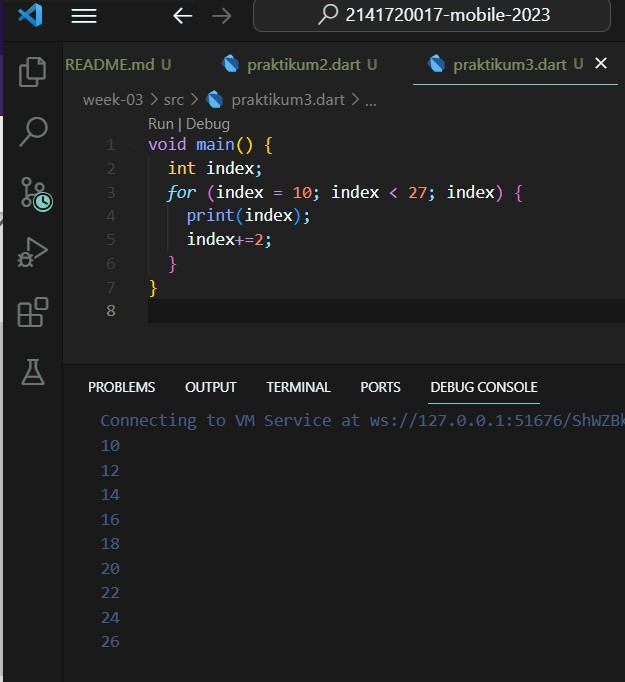
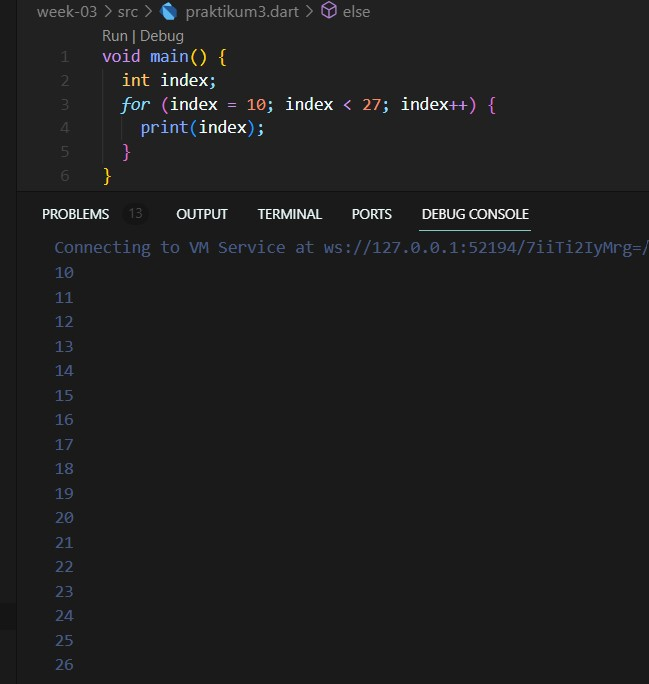
week-03 tugas

diff --git a/week-03/src/tugas_bil_prima.dart b/week-03/src/tugas_bil_prima.dart
@@ -1,0 +1,19 @@
+void main() {
+  int bil;
+  int count = 0;
+  for (int i = 1; i <= 201; i++) {
+    bil = 0;
+    for (int j = 1; j <= i; j++) {
+      if (i%j == 0) {
+        bil= bil+1;
+      }
+    }
+    if (bil==2) {
+      print("Nama : Alvina Marcy S.P.");
+      print("NIM : 2141720017");
+      print("Bilangan Prima : $i");
+      count++;
+    }
+  }
+  print("total ada $count bilangan prima");
+}

diff --git a/week-03/src/switch_case.dart b/week-03/src/switch_case.dart
@@ -1,0 +1,16 @@
+void main() {
+  int a = 1;
+  switch (a) {
+    case 1:
+      
+    case 2:
+      print(a);
+      break;
+    case 3:
+      print(a+1);
+      break;
+    default:
+    print(a+2);
+    break;
+  }
+}

diff --git a/week-03/src/praktikum3.dart b/week-03/src/praktikum3.dart
@@ -11,3 +11,6 @@ void main() {
     }
   }
 }
+
+
+

diff --git a/week-03/README.md b/week-03/README.md
@@ -12,11 +12,11 @@ Absen : 03
 
 ### Langkah 1
 Kode sesuai contoh praktikum
-![Screenshot langkah 1](docs/praktikum1_langkah1_eror.jpg)
+![Screenshot](docs/praktikum1_langkah1_eror.jpg)
 
 ### Langkah 2 
 kode setelah di perbaiki
-![Screenshot langkah 1](docs/praktikum1_langkah1.jpg)
+![Screenshot](docs/praktikum1_langkah1.jpg)
 
 Terjadi eror ketika di run karena pada if else ada penggunaan huruf besar yang tidak sesuai. sehingga perlu dilakukan perbaikan dengan mengganti huruf besar menjadi huruf kecil agar bisa likakukan run dan eror teratasi. 
 
@@ -25,10 +25,10 @@ sehingga menghasilkan print "Test2" dan "Test2 again" seperti pada contoh gambar
 ### Langkah 3
 
 Kode sesuai contoh praktikum
-![Screenshot langkah 1](docs/praktikum1_langkah3_eror.jpg)
+![Screenshot](docs/praktikum1_langkah3_eror.jpg)
 
 kode setelah di perbaiki
-![Screenshot langkah 1](docs/praktikum1_langkah3.jpg)
+![Screenshot](docs/praktikum1_langkah3.jpg)
 
 pada awalnya terjadi eror dikarenakan tidak boleh ada nama variabel yang terduplikasi, selanjutnya pada persyaratan if harus bernilai bolean. namun pada case awal walaupun variabel test memiliki String dengan kata true namun itu bukanlah bolean namun masih sebuah string, sehingga perlu kita buat persyaratan menjadi if(test1 == "true") barulah nilai yang di hasilkan berupa bolean dan kode bisa di eksekusi tanpa eror.
 
@@ -36,19 +36,19 @@ pada awalnya terjadi eror dikarenakan tidak boleh ada nama variabel yang terdupl
 
 ### Langkah 1
 Kode sesuai contoh praktikum
-![Screenshot langkah 1](docs/praktikum2_langkah1_eror.jpg)
+![Screenshot](docs/praktikum2_langkah1_eror.jpg)
 
 ### Langkah 2
 terjadi eror dikarenakan variabel counter belum di buat dan belum di devinisikan nilainya.
 
 kode setelah di perbaiki
-![Screenshot langkah 1](docs/praktikum2_langkah1.jpg)
+![Screenshot](docs/praktikum2_langkah1.jpg)
 
 ditambahkan variabel counter dengan tipe integer dan memiliki nilai 1. barulah looping while bisa berjalan
 
 ### Langkah 3
 Kode sesuai contoh praktikum
-![Screenshot langkah 1](docs/praktikum2_langkah3.jpg)
+![Screenshot](docs/praktikum2_langkah3.jpg)
 
 kode yang di berikan pada contoh praktikum tidak terjadi eror sehingga perulangan di-while dapat berjalan dengan benar.
 
@@ -62,6 +62,24 @@ terjadi eror karena variabel belum di buat dan looping akan terus berjalan karen
 ### Langkah 2
 ![Screenshot](docs/praktikum3_langkah1.jpg)
 
+Setelah di perbaiki 
 
+maka kita dapat membuat variabel index lalu membuat index dalam looping menjadi increment sehingga looping berjalan dengan baik
 
 ### Langkah 3
+
+kode sesuai contoh
+![Screenshot](docs/praktikum3_langkah3_eror.jpg)
+
+terdapat eror karena ketidak sesuaian huruf kapital yang di gunakan pada struktur if else serta nama variabel dalam if else tidak sesuai dengan nama variabel yang telah dibuat.
+
+kode setelah di perbaiki
+![Screenshot](docs/praktikum3_langkah3.jpg)
+
+kita memperbaiki dengan mengubah struktur if else sesuai dengan ketentuan. lali sesuaikan nama variabel yang digunakna dengan nama variabel yang telah dibuat lalu letakkan eksekusi "print" sebelum "continue" agar print dapa tetap di lakukan sehingga tampil hasil yangb sesuai.
+
+## Tugas - Membuat program untuk mengetahui bilangan prima
+![Screenshot](docs/tugas_bil_prima.jpg)
+
+## Percobaan code switch case
+![Screenshot](docs/switch_case.jpg)
